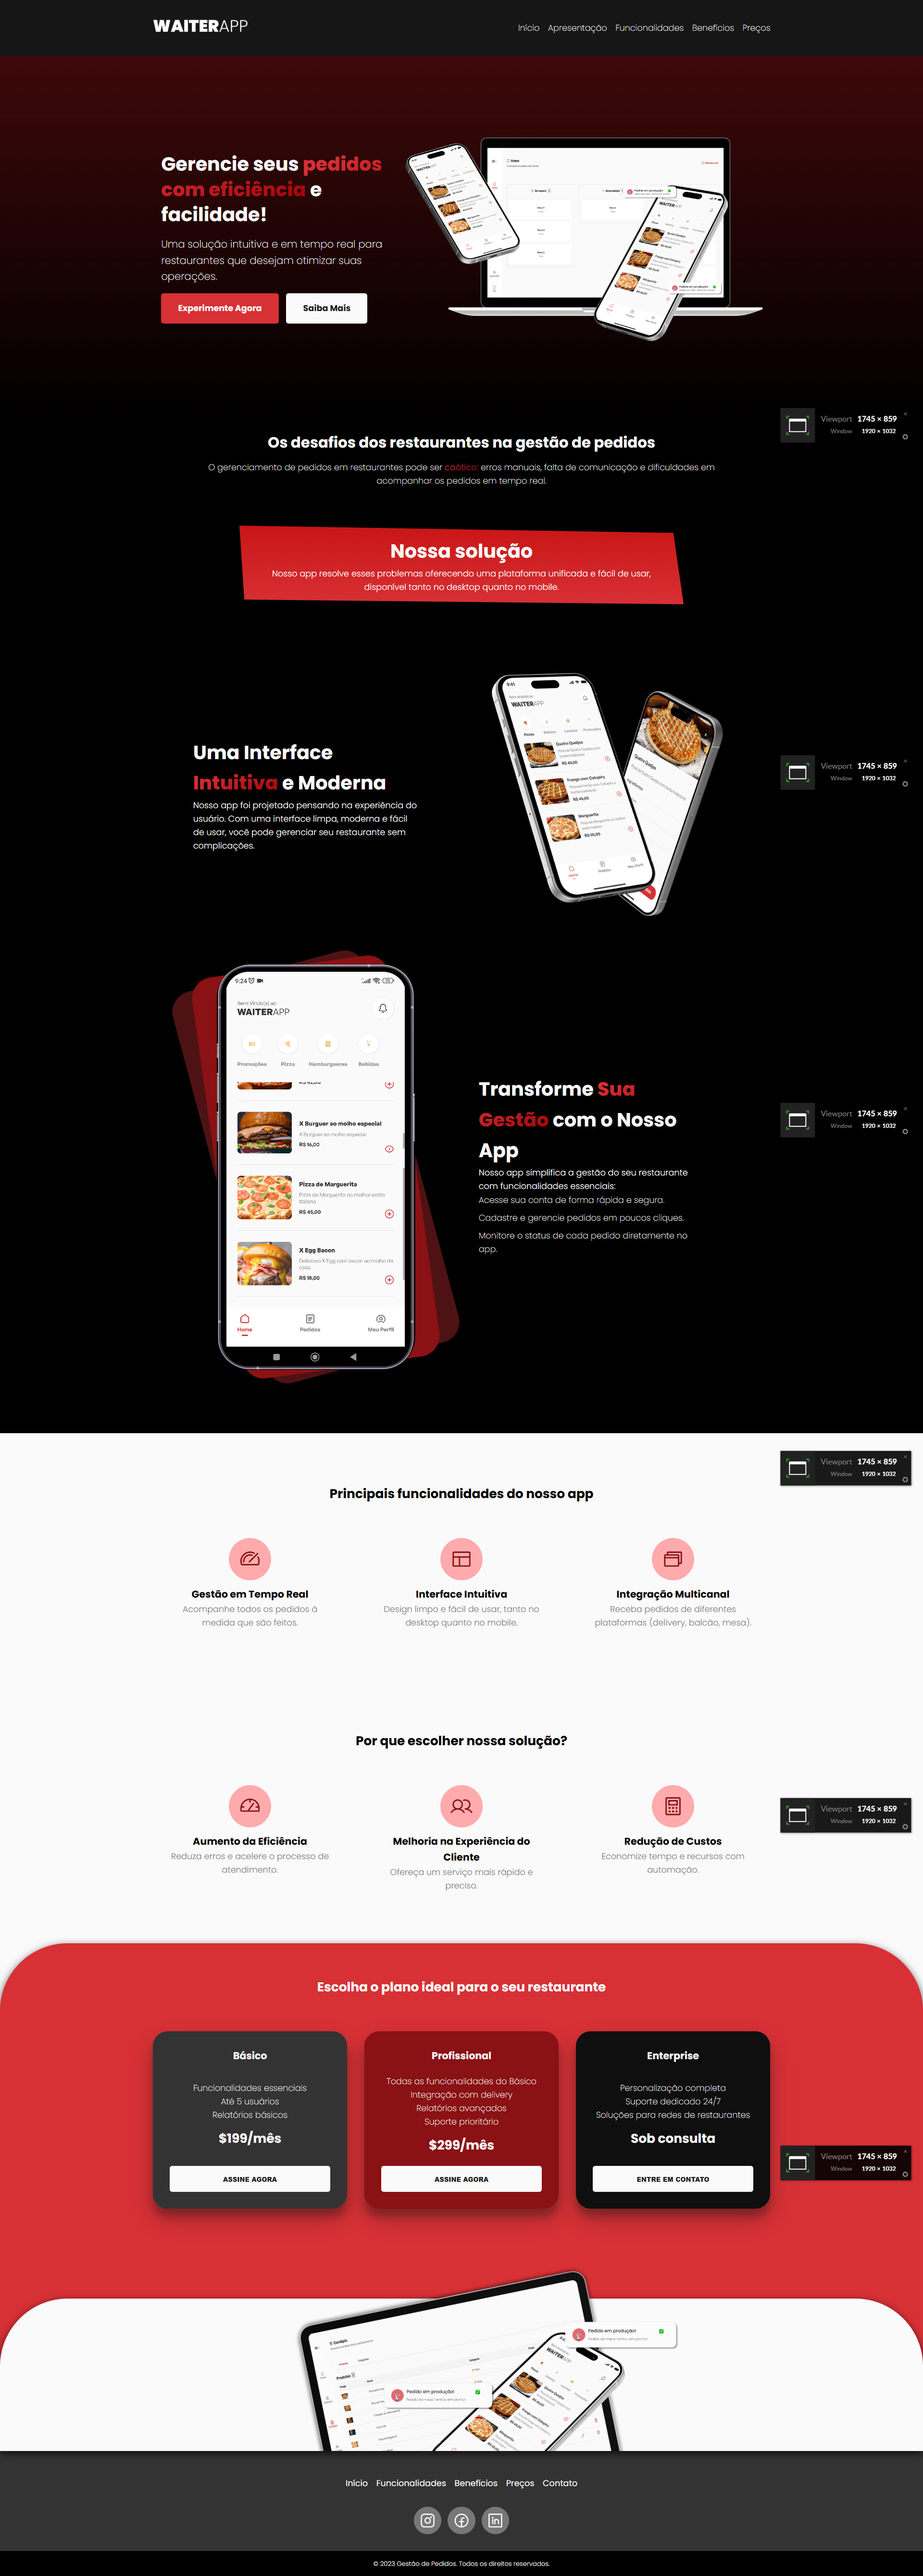
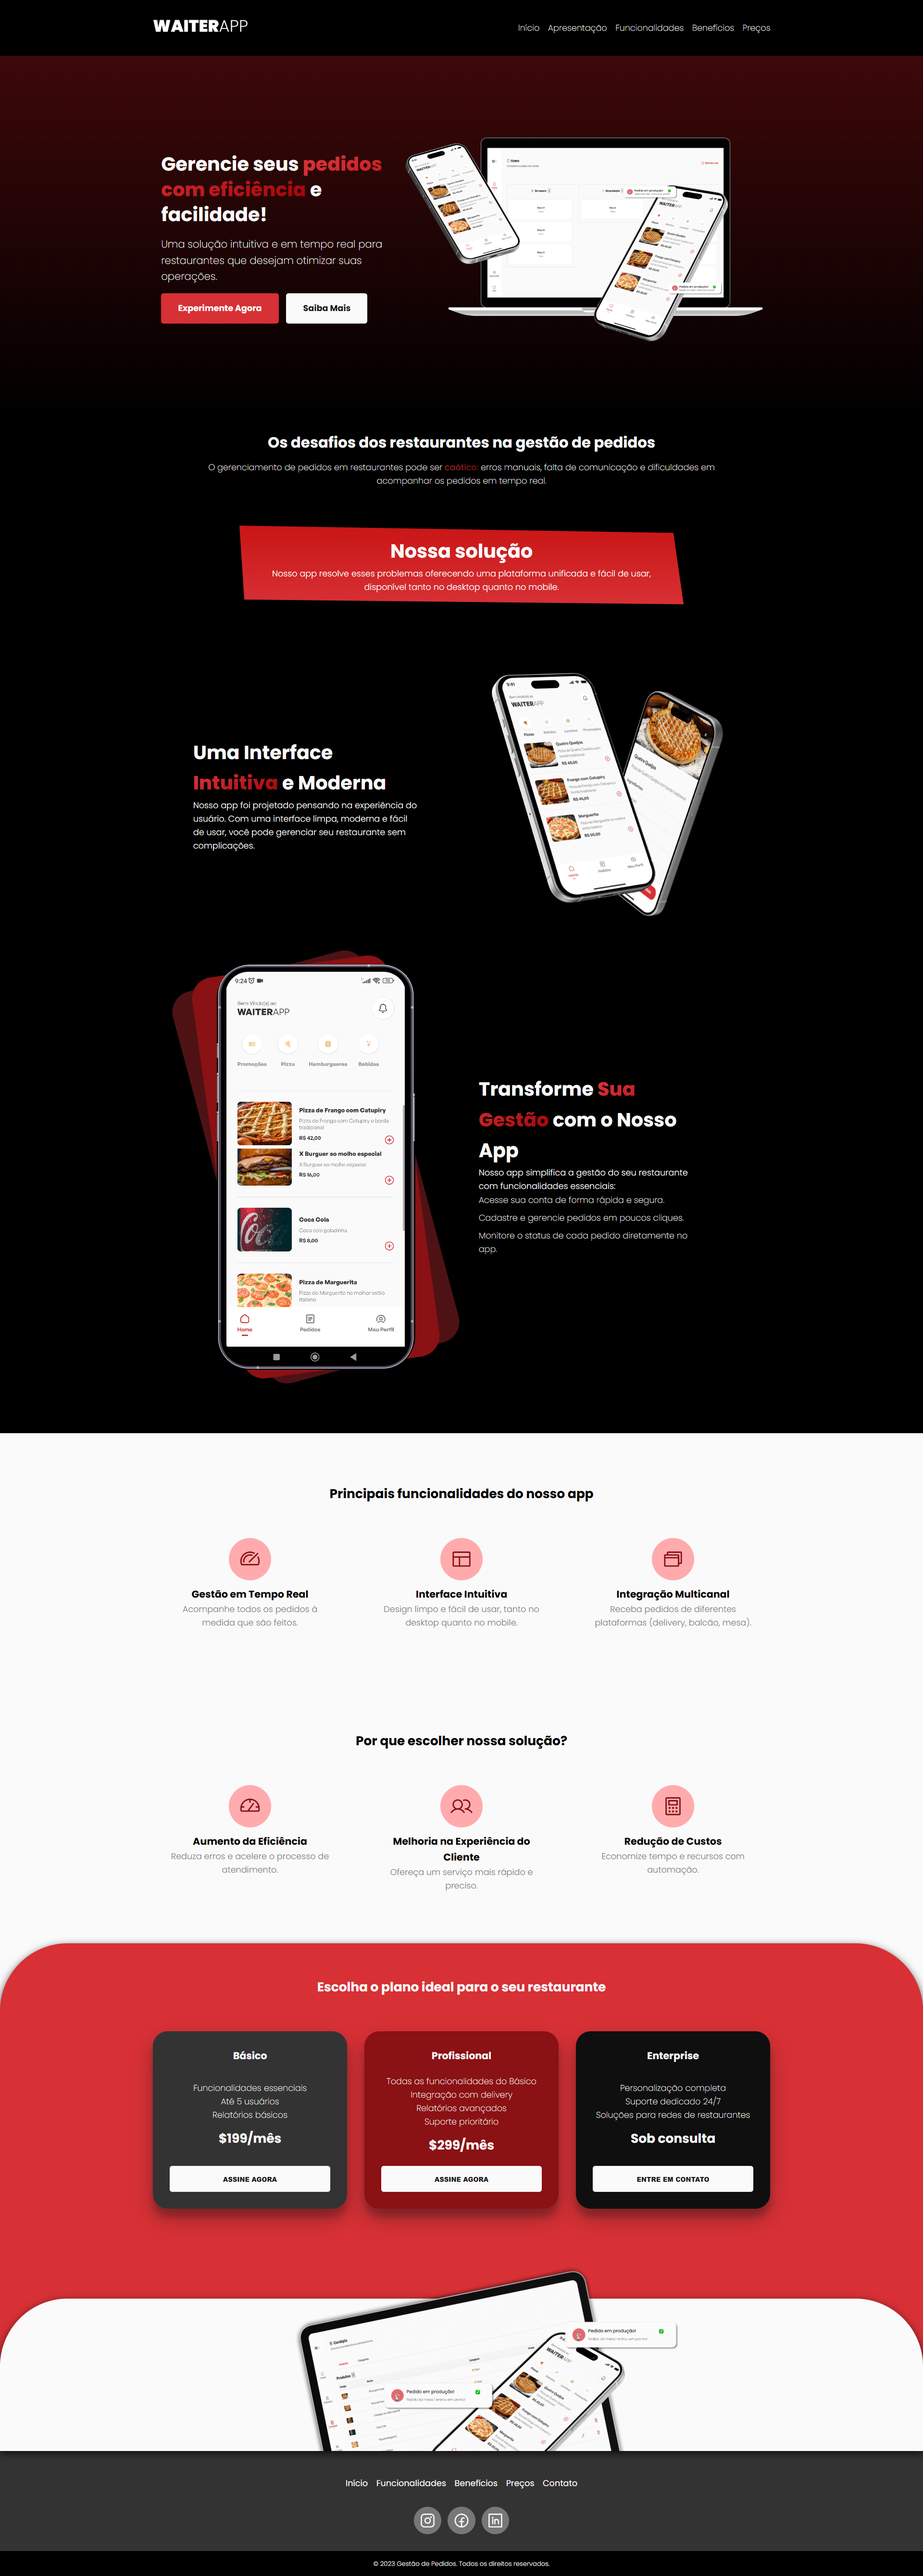
Mudando a image demo

diff --git a/styles.css b/styles.css
@@ -69,7 +69,7 @@ strong {
 }
 
 header {
-  background: var(--dark-bg);
+  background: var(--dark-full);
   padding: var(--spacing-large) 0;
   box-shadow: var(--box-shadow-light);
 }
